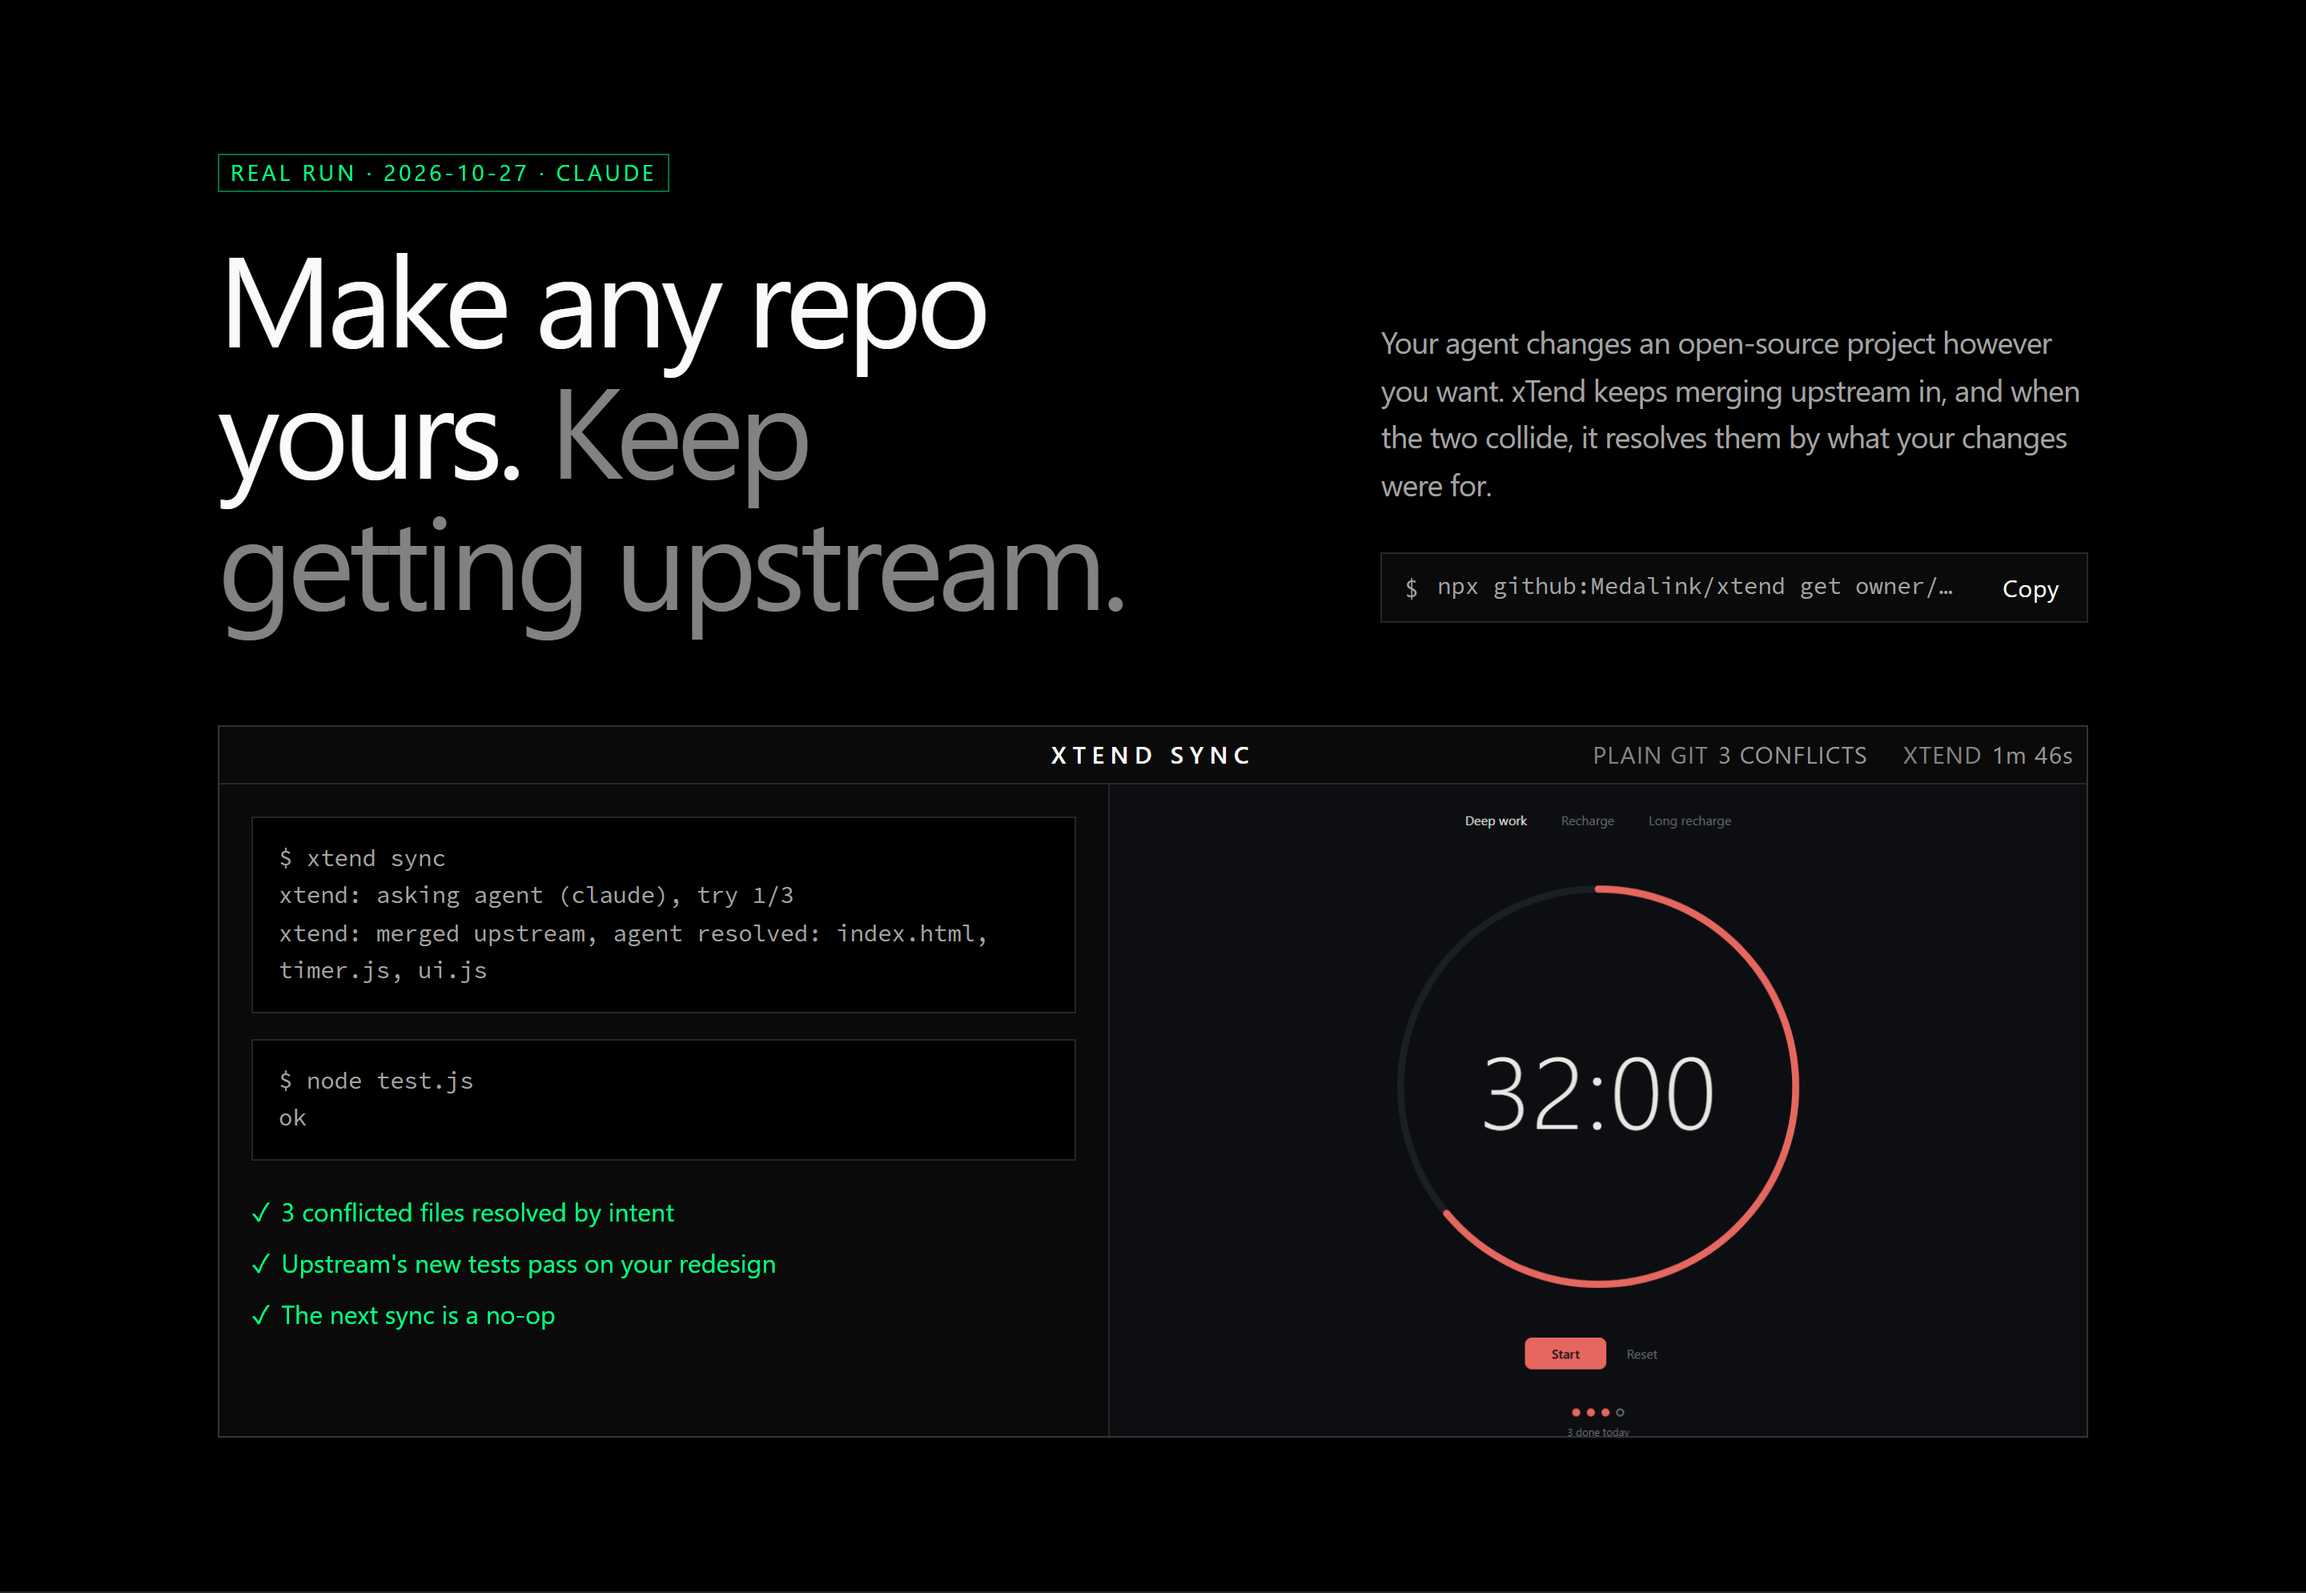
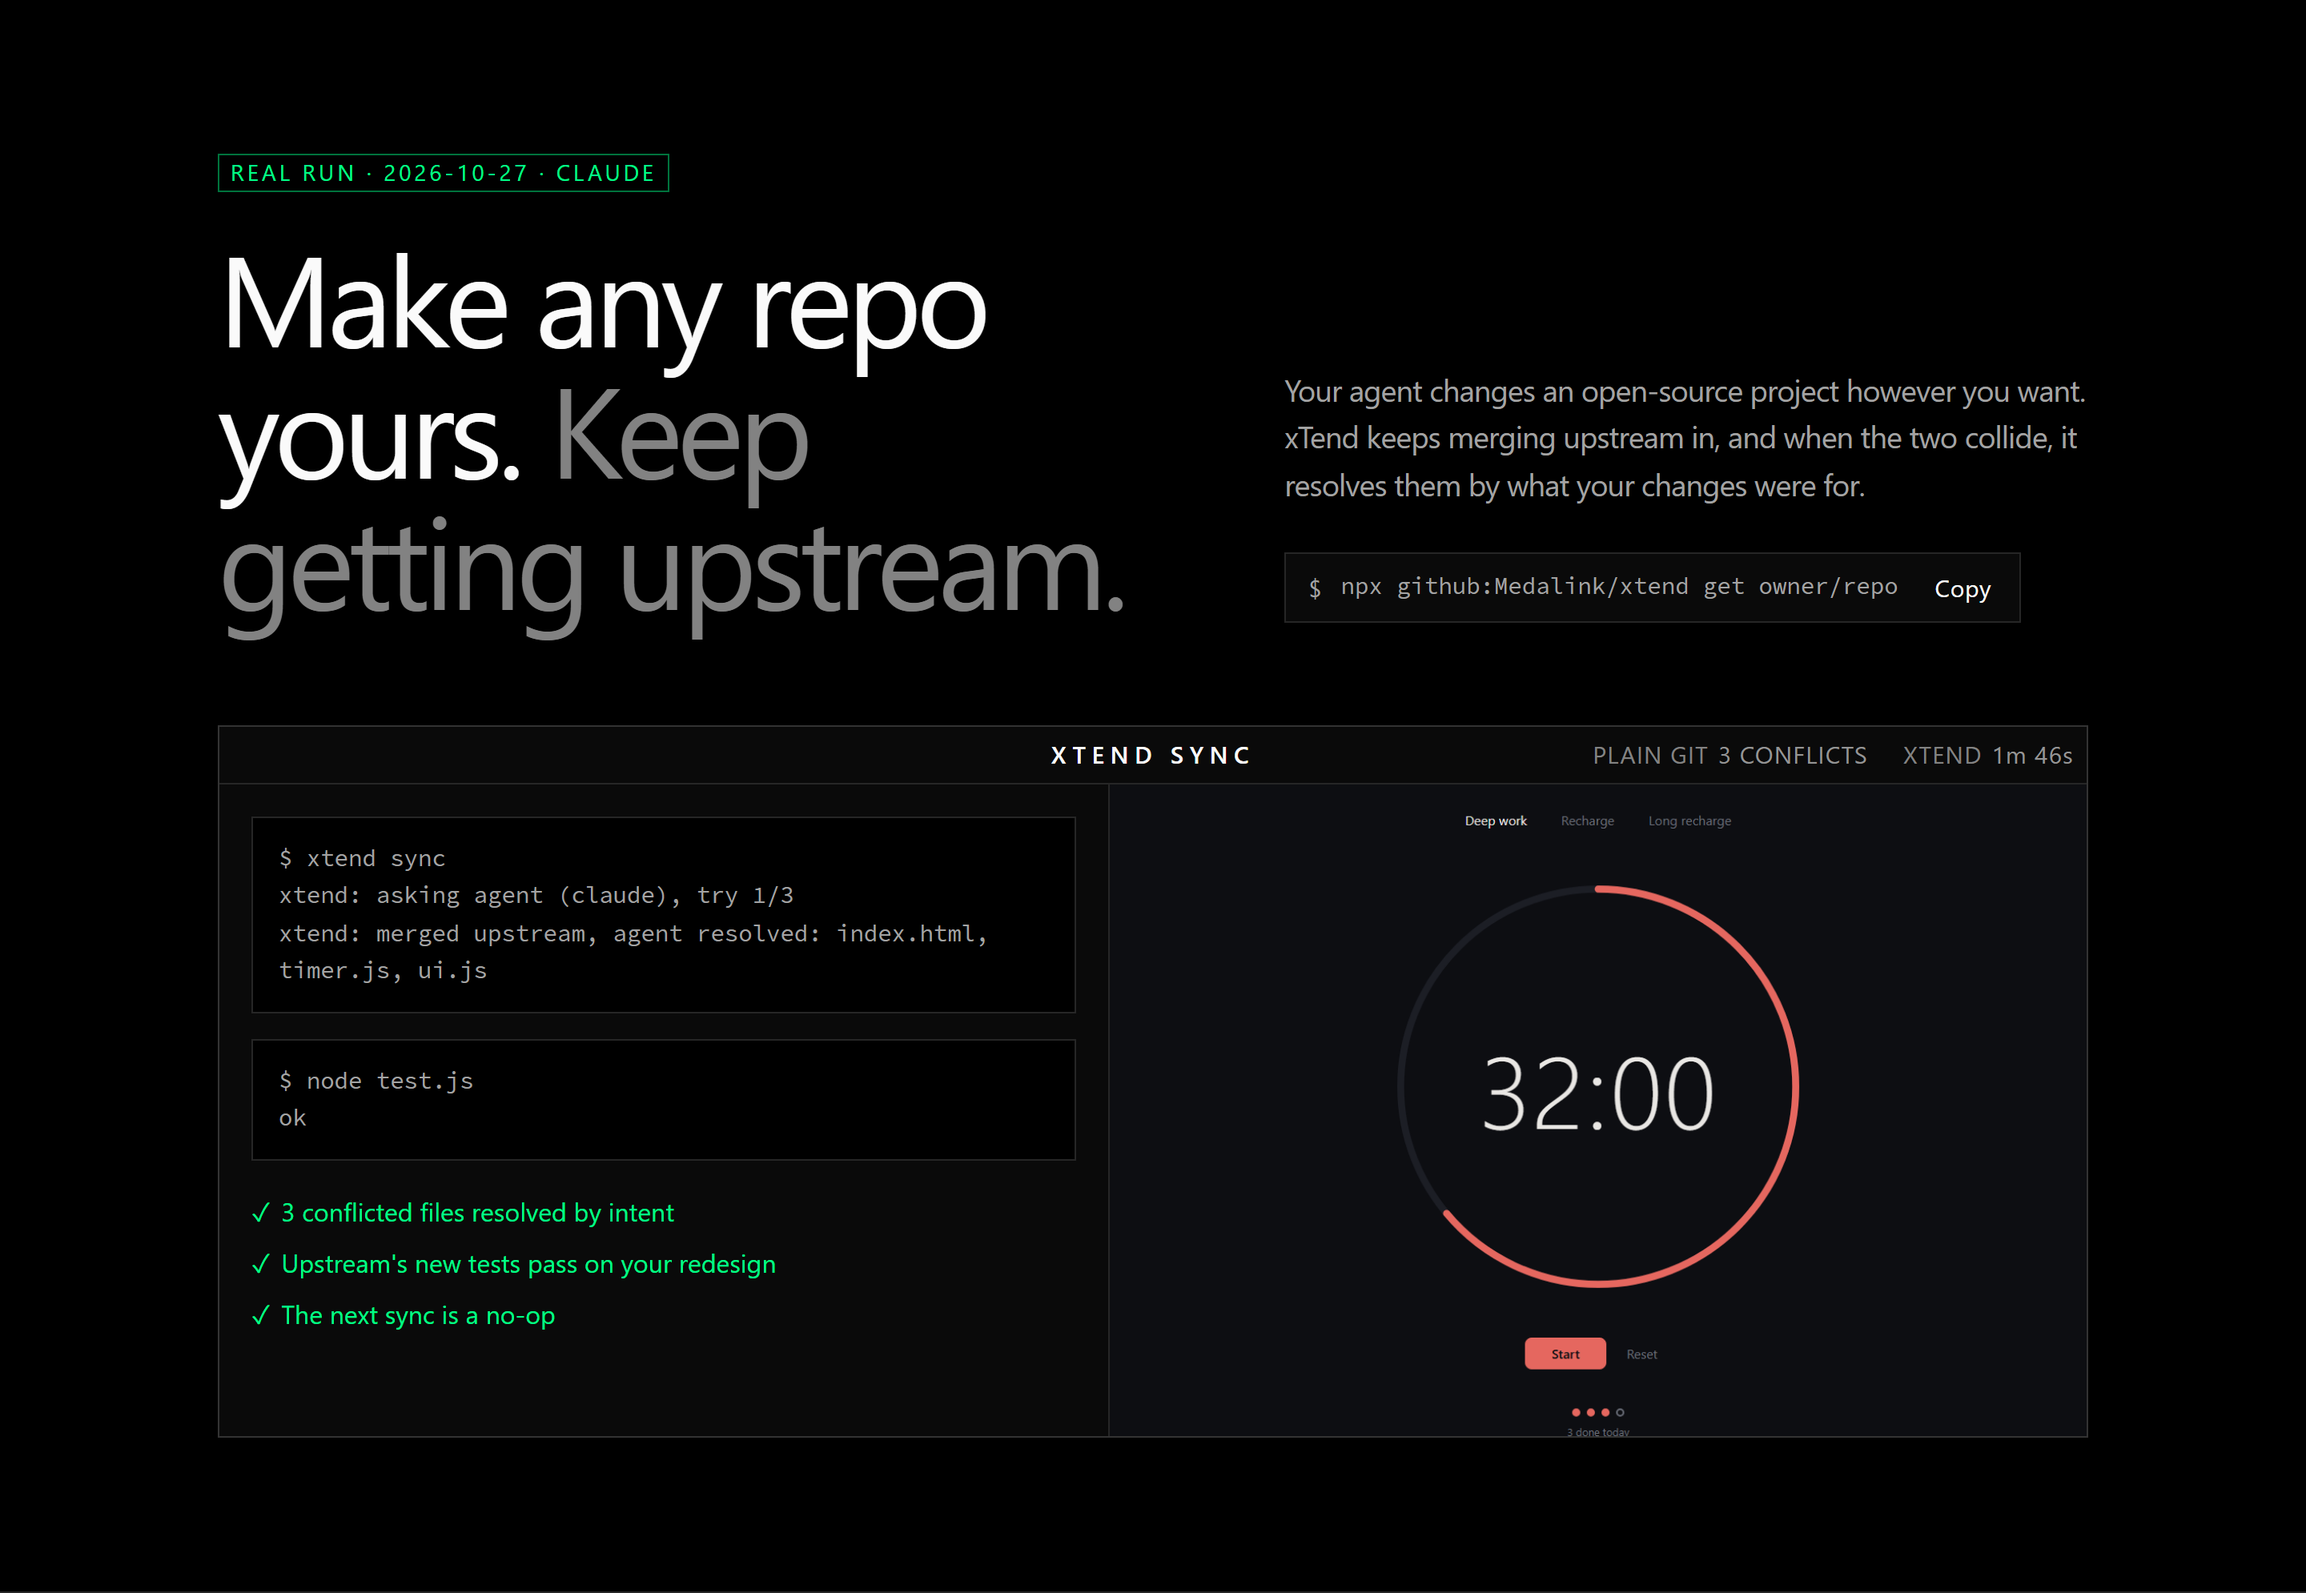
Fit the install command on one line

Changed region(s): [[0.5625, 0.1869, 0.9062, 0.3116], [0.5625, 0.3427, 0.8438, 0.3739], [0.875, 0.3427, 0.9062, 0.3739]]

diff --git a/docs/board.css b/docs/board.css
@@ -14,7 +14,7 @@
 .x-hero { border-block-end: 1px solid var(--sd-line); }
 .x-hero-grid { display: grid; gap: 64px; padding-block: 96px; }
 .x-hero-copy { display: grid; gap: 32px 64px; align-items: end; }
-@media (min-width: 64rem) { .x-hero-copy { grid-template-columns: minmax(0, 1.5fr) minmax(0, 1fr); } }
+@media (min-width: 64rem) { .x-hero-copy { grid-template-columns: minmax(0, 1.2fr) minmax(0, 1fr); } }
 .x-install { display: inline-flex; align-items: center; gap: 12px; min-height: 2.75rem; max-width: 100%; padding: 0 6px 0 14px; border: 1px solid var(--sd-line); background: var(--sd-surface); font-size: var(--text-sm); color: var(--sd-fg-muted); }
 .x-install code { font-family: var(--sd-font-mono); font-size: var(--text-xs); border: 0; background: none; padding: 0; white-space: nowrap; overflow: hidden; text-overflow: ellipsis; }
 
